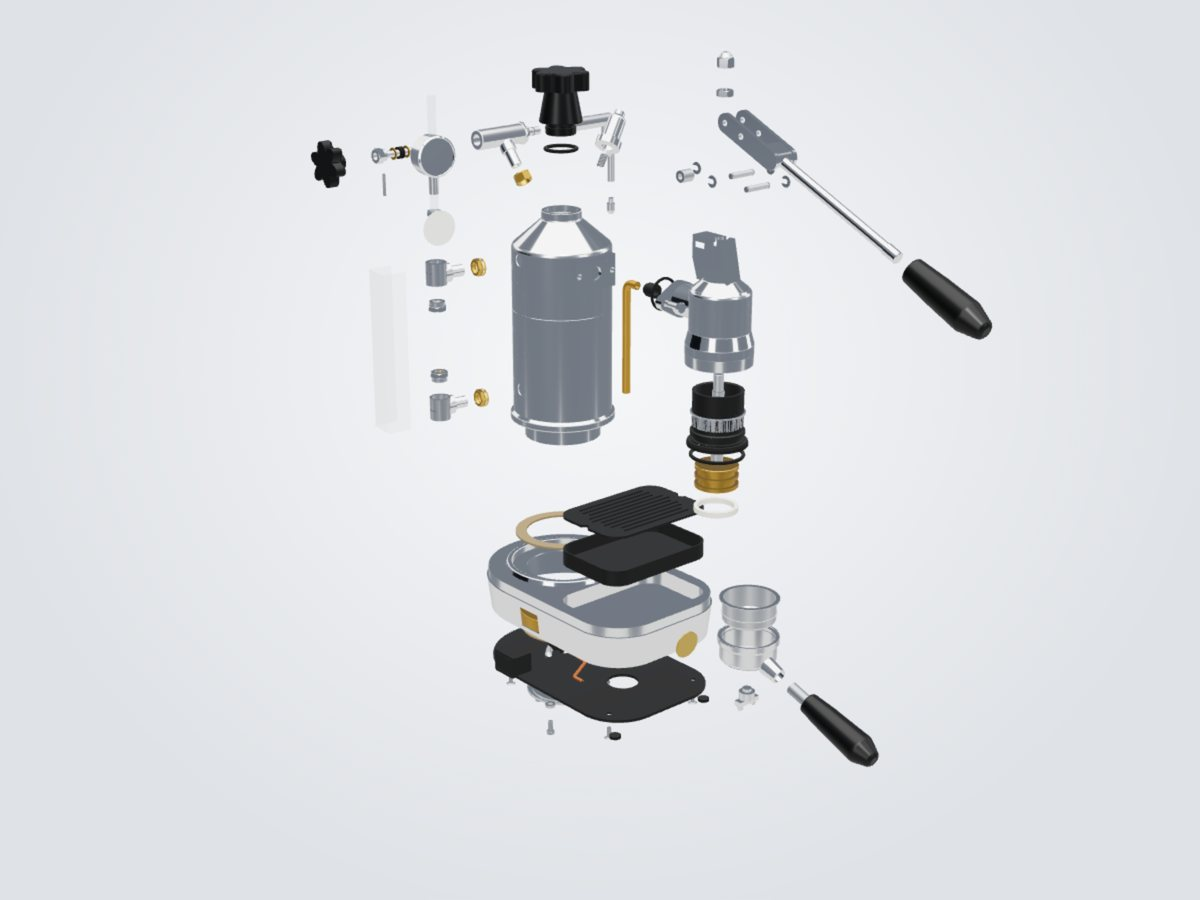
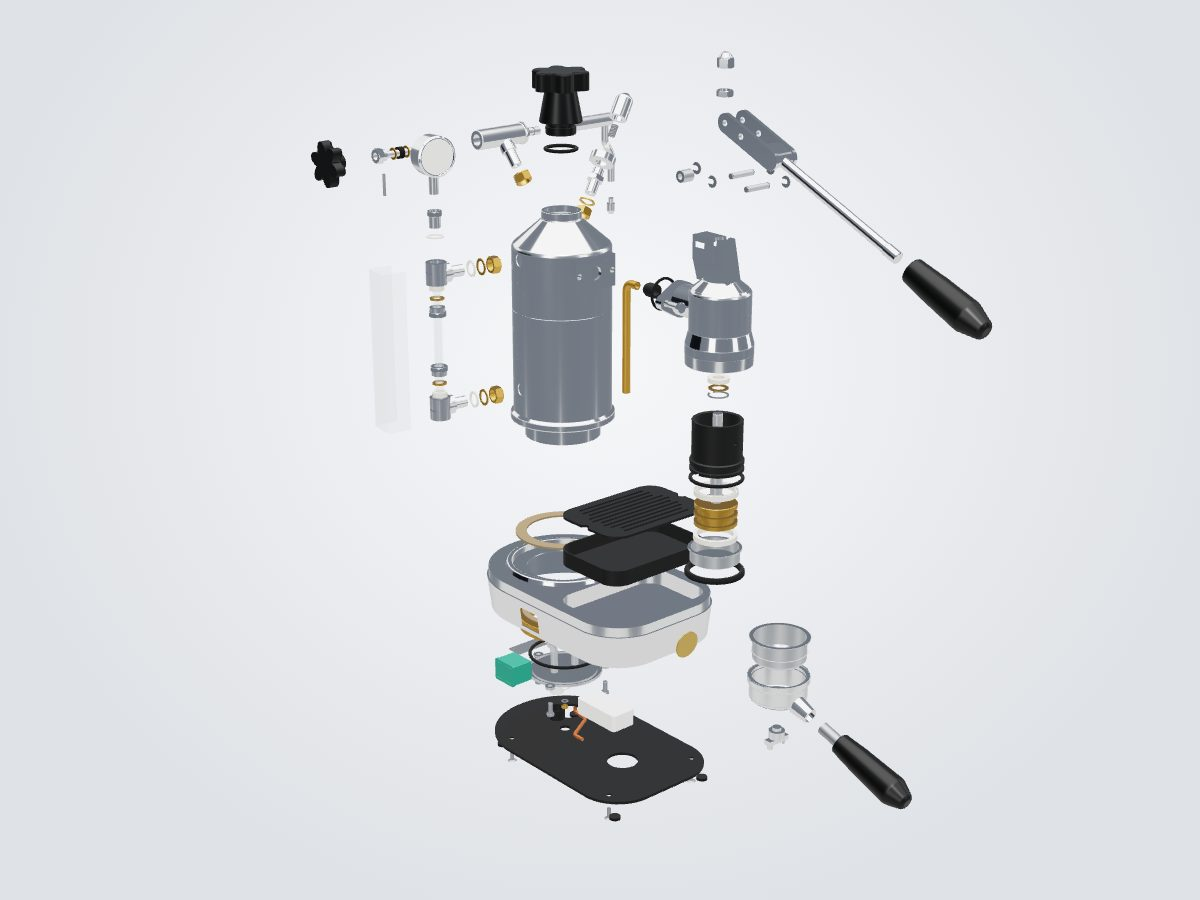
Exploded view: stack parts so that none end up inside another
The shower screen flickered at full explosion. It was not a rendering
problem: the screen (70 mm down) came to rest at the height of the
piston sleeve (100 mm down), both are dia. 50 on the outside, so two
surfaces lay on top of each other. The same happened in 21 other pairs
(bottom plate / pressurestat, sight glass / gauge, valve cap / fitting)
and, in the procedures, where detached assemblies come to rest.

- validate: new check 10, no overlap at the end of any explode stage;
  check 8 also covers the resting positions at the end of every
  procedure step. Both run in the calibration test (98-118 mm).
- explode.removal_mm (optional): the way a part travels while its
  assembly still sits on the machine, where that differs from the way
  in the exploded view. On the bench the part travels distance_mm, so
  it ends up where the exploded view puts it (Ctx.travel, travel()).
- Explode data restacked in removal order: group column, parts under
  the base, safety valve, sight glass. The gauge dial moves with the
  gauge. Bottom plate, portafilter and drip tray rest clear of the
  parts removed after them.
- README images regenerated.

Claude-Session: https://claude.ai/code/session_011gdDKEsScSaLhDCu5dCiZj

diff --git a/web/src/logic/explode.ts b/web/src/logic/explode.ts
@@ -1,5 +1,5 @@
 // Hierarchical explode and removal offsets in CAD mm (world frame).
-import type { AppData, Vec3 } from '../data/types';
+import type { AppData, Explode, Vec3 } from '../data/types';
 import { asmChain, type ModelIndex } from './graph';
 
 export const smooth = (x: number) => x * x * (3 - 2 * x);
@@ -18,6 +18,14 @@ export function stageFactor(t: number, stage: number, nStages: number): number {
 }
 
 const add = (a: Vec3, b: Vec3, k: number): Vec3 => [a[0] + b[0] * k, a[1] + b[1] * k, a[2] + b[2] * k];
+
+/**
+ * How far a part or an assembly travels when it is removed. removal_mm sets the way while the
+ * unit still sits on the machine (the shower screen has the drip tray below it). Once an assembly
+ * above it is detached - it lies on the bench - the unit travels its full explode distance and
+ * comes to rest where the exploded view puts it. Same rule as Ctx.travel in cad/pavoni/validate.py.
+ */
+export const travel = (e: Explode, onBench: boolean): number => (onBench ? e.distance_mm : (e.removal_mm ?? e.distance_mm));
 
 /**
  * Global explode view: assemblies move apart along their axes, then their parts
@@ -62,19 +70,22 @@ export function removalDisplay(d: Pick<AppData, 'instances' | 'assemblyGeo'>, id
   for (const [iid, g] of Object.entries(d.instances)) {
     let o: Vec3 = [0, 0, 0];
     let active = false;
+    let onBench = false; // an assembly above is detached (or leaving in this step)
     for (const a of asmChain(g.assembly)) {
       const ag = d.assemblyGeo[a];
       if (!ag) continue;
+      const detached = st.moving.has(a) || st.removed.has(a);
       const p = st.moving.get(a) ?? (st.removed.has(a) ? 1 : 0);
       if (st.moving.has(a)) active = true;
-      if (p > 0) o = add(o, ag.explode.axis, ag.explode.distance_mm * smooth(p));
+      if (p > 0) o = add(o, ag.explode.axis, travel(ag.explode, onBench) * smooth(p));
+      if (detached) onBench = true;
     }
     const pid = idx.instPart[iid];
     const own = st.moving.get(iid) ?? st.moving.get(pid);
     let visible = true;
     if (own !== undefined) {
       active = true;
-      o = add(o, g.explode.axis, g.explode.distance_mm * smooth(own));
+      o = add(o, g.explode.axis, travel(g.explode, onBench) * smooth(own));
     } else if (st.removed.has(iid) || st.removed.has(pid)) {
       visible = false;
     }

diff --git a/web/src/logic/logic.test.ts b/web/src/logic/logic.test.ts
@@ -90,11 +90,30 @@ describe('explode', () => {
     const inside = Object.keys(data.instances).filter((i) => data.instances[i].assembly.startsWith(asm));
     expect(inside.length).toBeGreaterThan(2); // rod, piston and two seals at least
     const moved = d[inside[0]].offset;
-    expect(Math.hypot(...moved)).toBeCloseTo(data.assemblyGeo[asm].explode.distance_mm);
+    // only the piston assembly is moving here, its parent group is not detached: the way on the machine
+    const e = data.assemblyGeo[asm].explode;
+    expect(Math.hypot(...moved)).toBeCloseTo(e.removal_mm ?? e.distance_mm);
     for (const i of inside) expect(d[i].offset).toEqual(moved);
     // parts outside the assembly stay where they are
     const outside = Object.keys(data.instances).find((i) => data.instances[i].assembly === 'base')!;
     expect(d[outside].offset).toEqual([0, 0, 0]);
+  });
+  it('removal: short way on the machine, full explode distance once the assembly lies on the bench', () => {
+    // the shower screen leaves the mounted group by a short way (the drip tray is below it) ...
+    const screen = 'p081_shower_screen__1';
+    const e = data.instances[screen].explode;
+    expect(e.removal_mm).toBeDefined();
+    expect(e.removal_mm!).toBeLessThan(e.distance_mm);
+    const mounted = removalDisplay(data, idx, { removed: new Set<string>(), moving: new Map([[screen, 1]]) });
+    expect(Math.hypot(...mounted[screen].offset)).toBeCloseTo(e.removal_mm!);
+    // ... but with the group on the bench it ends up where the exploded view puts it, below the piston
+    const bench = removalDisplay(data, idx, { removed: new Set(['boiler.group']), moving: new Map([[screen, 1], ['boiler.group.piston', 1]]) });
+    const rel = (i: string) => bench[i].offset.map((c, k) => c - bench['p072_group_body__1'].offset[k]);
+    expect(Math.hypot(...rel(screen))).toBeCloseTo(e.distance_mm);
+    const f = explodeOffsets(data, 1);
+    const body = f['p072_group_body__1'];
+    for (const i of [screen, 'p079_piston__1', 'p078_piston_rod__1'])
+      expect(rel(i).map((c) => Math.round(c * 100))).toEqual(f[i].map((c, k) => Math.round((c - body[k]) * 100)));
   });
 });
 

diff --git a/web/src/data/types.ts b/web/src/data/types.ts
@@ -1,6 +1,8 @@
 export type I18n = { de: string; en?: string; it?: string };
 export type Vec3 = [number, number, number];
-export type Explode = { axis: Vec3; distance_mm: number; stage: number };
+/** distance_mm: way in the exploded view. removal_mm: the way the part travels instead when it is
+ * removed while its assembly still sits on the machine (see logic/explode.ts, travel). */
+export type Explode = { axis: Vec3; distance_mm: number; removal_mm?: number; stage: number };
 export type Confidence = 'measured' | 'catalog' | 'spec' | 'photo' | 'guess';
 export type Status = 'planned' | 'blockout' | 'modeled' | 'verified';
 

diff --git a/cad/pavoni/validate.py b/cad/pavoni/validate.py
@@ -8,12 +8,15 @@ Checks
   2 solids       every solid valid, closed, volume > 0
   3 interference pairwise overlap below tolerance, except the reasoned whitelist
   4 paths        each part/assembly leaves along its explode axis without collision
-                 when exactly its requires_removed closure is gone
+                 when exactly its requires_removed closure is gone (way: Ctx.travel)
   5 envelope     bounding box (without lever and portafilter grip) vs 200 x 290 x 320-366:
                  within 7 % ok, within 15 % warning, beyond that error
   6 budgets      GLB size, triangles, draw calls
   7 data         references, DAG, tools, dims keys
-  8 procedures   ids exist, requires satisfied, every step collision-free
+  8 procedures   ids exist, requires satisfied, every step collision-free, nothing overlaps
+                 where the removed parts and assemblies come to rest
+  9 proportions  photo ratios and catalog sizes against the model
+ 10 explode      no two parts overlap at the end of any stage of the exploded view
 """
 from __future__ import annotations
 
@@ -203,12 +206,100 @@ class Ctx:
         present = [i for i in present if i not in carried]  # carriers and parts riding on the moving part
         return moving, present
 
-    def explode_of(self, unit: str):
+    def travel(self, unit: str, removed=()) -> tuple[np.ndarray, float]:
+        """Axis and length of the way a part or assembly travels when it is removed.
+        removal_mm sets the way while the unit still sits on the machine (e.g. the shower
+        screen above the drip tray). Once an assembly above it is detached - it lies on the
+        bench - the unit travels the full explode distance, so that it comes to rest where
+        the exploded view puts it. Same rule as web/src/logic/explode.ts."""
         if self.kind(unit) == "asm":
             e = self.manifest["assemblies"][unit]["explode"]
+            above = self.chain(unit)[:-1]
         else:
             e = self.inst[unit]["explode"]
-        return np.array(e["axis"], float), float(e["distance_mm"])
+            above = self.chain(self.inst_asm[unit])
+        on_bench = any(a in removed for a in above)
+        dist = e["distance_mm"] if on_bench else e.get("removal_mm", e["distance_mm"])
+        return np.array(e["axis"], float), float(dist)
+
+    def display_offsets(self, removed: set[str], moving: list[str]) -> dict[str, np.ndarray]:
+        """What the viewer shows at the end of a procedure step (removalDisplay in
+        web/src/logic/explode.ts): detached assemblies lie at their offset ("bench"), the
+        units of this step have moved out, parts removed earlier are hidden (not in the result)."""
+        mset = set(moving)
+        gone = set(removed) | mset
+        out = {}
+        for i in self.inst:
+            if i in removed and i not in mset:
+                continue
+            o = np.zeros(3)
+            for a in self.chain(self.inst_asm[i]):
+                if a in self.asm and a in gone:
+                    axis, dist = self.travel(a, gone)
+                    o = o + axis * dist
+            if i in mset:
+                axis, dist = self.travel(i, gone)
+                o = o + axis * dist
+            out[i] = o
+        return out
+
+    def overlaps_at(self, off: dict[str, np.ndarray], skip=()):
+        """Pairs of instances that overlap when each is moved by its offset. Pairs with the
+        same offset keep their assembled relation (check 3) and are left out. Yields
+        (a, b, volume) with volume None where the intersection cannot be computed."""
+        import fcl
+        import trimesh
+
+        ids = list(off)
+        bbs = {i: self.bbox(i) + off[i] for i in ids}
+        req = fcl.CollisionRequest()
+        for a_i, a in enumerate(ids):
+            for b in ids[a_i + 1 :]:
+                if frozenset((a, b)) in skip or np.allclose(off[a], off[b], atol=1e-6):
+                    continue
+                A, B = bbs[a], bbs[b]
+                if np.any(A[1] < B[0]) or np.any(A[0] > B[1]):
+                    continue
+                o1 = fcl.CollisionObject(self.bvh(a, True), fcl.Transform(off[a]))
+                o2 = fcl.CollisionObject(self.bvh(b, True), fcl.Transform(off[b]))
+                if not fcl.collide(o1, o2, req, fcl.CollisionResult()):
+                    continue
+                ma = trimesh.Trimesh(self.meshes[f"{a}__v"] + off[a], self.meshes[f"{a}__f"])
+                mb = trimesh.Trimesh(self.meshes[f"{b}__v"] + off[b], self.meshes[f"{b}__f"])
+                try:
+                    inter = trimesh.boolean.intersection([ma, mb], engine="manifold")
+                    vol = float(inter.volume) if len(inter.faces) else 0.0
+                    area = float(inter.area) if len(inter.faces) else 1.0
+                except Exception:  # noqa: BLE001
+                    yield a, b, None
+                    continue
+                if 2 * vol / max(area, 1e-9) > INTERFERENCE_THICKNESS and vol > 0.5:
+                    yield a, b, vol
+
+    def explode_stages(self) -> int:
+        es = [v["explode"] for v in self.inst.values()] + [v["explode"] for v in self.manifest["assemblies"].values()]
+        return max([1] + [int(e["stage"]) for e in es])
+
+    def explode_offsets(self, t: float) -> dict[str, np.ndarray]:
+        """Offsets (mm, world) of the exploded view at t in [0, 1]. Same rule as
+        web/src/logic/explode.ts: the assemblies along the chain, then the part itself,
+        each opening during its stage."""
+        n = self.explode_stages()
+
+        def factor(stage):
+            x = min(1.0, max(0.0, t * n - (stage - 1)))
+            return x * x * (3 - 2 * x)
+
+        out = {}
+        for i, v in self.inst.items():
+            o = np.zeros(3)
+            for a in self.chain(v["assembly"]):
+                e = self.manifest["assemblies"].get(a, {}).get("explode")
+                if e:
+                    o += np.array(e["axis"], float) * e["distance_mm"] * factor(e["stage"])
+            e = v["explode"]
+            out[i] = o + np.array(e["axis"], float) * e["distance_mm"] * factor(e["stage"])
+        return out
 
     # collision --------------------------------------------------------------
     def bvh(self, iid: str, shrunk: bool):
@@ -451,12 +542,12 @@ def check_paths(ctx: Ctx, rep: Report):
         for i in ctx.part_instances[p["id"]]:
             units.append((i, "inst"))
     for unit, kind in units:
-        axis, dist = ctx.explode_of(unit)
-        if dist <= 0:
-            continue
         reqs = ctx.requires(unit)
         removed = ctx.closure(reqs)
         removed.discard(unit)
+        axis, dist = ctx.travel(unit, removed)
+        if dist <= 0:
+            continue
         moving, present = ctx.context(unit, removed)
         hit = ctx.path_collisions(moving, present, axis, dist)
         n += 1
@@ -512,6 +603,8 @@ def check_procedures(ctx: Ctx, rep: Report, coverage_strict: bool):
         removed = ctx.closure(proc.get("start_removed", []))
         n_moves = 0
         for st in proc["steps"]:
+            before = set(removed)
+            step_units = []
             for t in st.get("tools", []):
                 if t not in tools:
                     rep.add(name, "error", f"{pid}/{st['id']}: Werkzeug {t} unbekannt")
@@ -535,8 +628,9 @@ def check_procedures(ctx: Ctx, rep: Report, coverage_strict: bool):
                 if missing:
                     rep.add(name, "error", f"{pid}/{st['id']}: {r} ausgebaut, aber noch nicht entfernt: {', '.join(missing[:6])}")
                 units = [r] if k == "asm" else ([r] if r in ctx.inst else []) if k == "inst" else ctx.part_instances[r]
+                step_units.extend(units)
                 for u in units:
-                    axis, dist = ctx.explode_of(u)
+                    axis, dist = ctx.travel(u, removed)
                     moving, present = ctx.context(u, removed)
                     hit = ctx.path_collisions(moving, present, axis, dist)
                     n_moves += 1
@@ -547,7 +641,11 @@ def check_procedures(ctx: Ctx, rep: Report, coverage_strict: bool):
                     removed.add(r)
                 if k == "part":
                     removed.update(ctx.parts[r]["instances"])
-        rep.ok(name, f"{pid}: {len(proc['steps'])} Schritte, {n_moves} Bewegungen vorwärts kollisionsfrei geprüft (rückwärts = gleiche Pfade)")
+            # what lies on the "bench" at the end of the step must not overlap either
+            for a, b, vol in ctx.overlaps_at(ctx.display_offsets(before, step_units)):
+                how = "Schnittvolumen nicht berechenbar" if vol is None else f"{vol:.1f} mm³"
+                rep.add(name, "error", f"{pid}/{st['id']}: {a} x {b} überdecken sich am Ende des Schritts ({how}) - Ausbauweg/Ablage (removal_mm) anpassen")
+        rep.ok(name, f"{pid}: {len(proc['steps'])} Schritte, {n_moves} Bewegungen vorwärts kollisionsfrei geprüft (rückwärts = gleiche Pfade), Ablage ohne Überdeckung")
     wear = [p["id"] for p in ctx.data["parts"] if p["wear_part"] and p["status"] != "planned"]
     for w in wear:
         if w not in covered:
@@ -569,8 +667,24 @@ def check_proportions(ctx: Ctx, rep: Report, D: Dims):
             rep.ok(name, f"{r['name']}: {r['value']} mm, Soll {r['target_mm']} mm ({r['dev']:+.1%})")
 
 
+def check_explode(ctx: Ctx, rep: Report):
+    """The exploded view must not put parts into each other: coincident faces of two parts
+    flicker in the viewer (the shower screen used to end up around the piston sleeve, both
+    dia. 50). Checked where the slider comes to rest, at the end of every stage."""
+    name = "10 Explosionsansicht (keine Überdeckung am Ende jeder Stufe)"
+    rep.ok(name)
+    n = ctx.explode_stages()
+    found: set[frozenset] = set()
+    for k in range(1, n + 1):
+        for a, b, vol in ctx.overlaps_at(ctx.explode_offsets(k / n), skip=found):
+            found.add(frozenset((a, b)))
+            how = "Schnittvolumen nicht berechenbar" if vol is None else f"{vol:.1f} mm³"
+            rep.add(name, "error", f"{a} x {b}: überdecken sich ab Stufe {k} ({how}) - explode-Wege staffeln")
+    rep.ok(name, f"{n} Stufen geprüft")
+
+
 def geometry_report(data: dict, instances: dict, assemblies: dict, meshes: dict) -> Report:
-    """Solids, interference, removal paths and procedures for a model held in memory
+    """Solids, interference, removal paths, procedures and the exploded view for a model held in memory
     (see export.collect). Used to check variants, e.g. other boiler diameters."""
     rep = Report()
     ctx = Ctx(data, {"instances": instances, "assemblies": assemblies}, meshes)
@@ -578,6 +692,7 @@ def geometry_report(data: dict, instances: dict, assemblies: dict, meshes: dict)
     check_interference(ctx, rep)
     check_paths(ctx, rep)
     check_procedures(ctx, rep, coverage_strict=False)
+    check_explode(ctx, rep)
     return rep
 
 
@@ -606,6 +721,8 @@ def main(argv=None) -> int:
     check_budgets(rep, stats)
     check_procedures(ctx, rep, coverage_strict=complete and len(data["procedures"]) >= 11)
     check_proportions(ctx, rep, D)
+    if not args.skip_geometry:
+        check_explode(ctx, rep)
     rep.print()
     REPORT.write_text(json.dumps({"time_s": round(time.time() - t0, 1), "checks": rep.checks}, indent=1, ensure_ascii=False))
     print(f"validate: {rep.n_errors} Fehler, {time.time() - t0:.1f} s -> {REPORT.relative_to(REPORT.parents[1])}")

diff --git a/cad/pavoni/export.py b/cad/pavoni/export.py
@@ -43,6 +43,15 @@ def world_axis(loc, axis) -> list[float]:
     return [round(v.X() / n, 6), round(v.Y() / n, 6), round(v.Z() / n, 6)]
 
 
+def explode_entry(loc, ex: dict) -> dict:
+    """Explode data of a part or assembly with the axis in the world frame. removal_mm is
+    optional: the way the part travels when it is removed on the machine, see common.schema.json."""
+    out = {"axis": world_axis(loc, ex["axis"]), "distance_mm": ex["distance_mm"], "stage": ex["stage"]}
+    if "removal_mm" in ex:
+        out["removal_mm"] = ex["removal_mm"]
+    return out
+
+
 def git_sha() -> str:
     try:
         return subprocess.check_output(["git", "rev-parse", "--short", "HEAD"], text=True, stderr=subprocess.DEVNULL).strip()
@@ -75,7 +84,7 @@ def collect(m):
             "valid": bool(BRepCheck_Analyzer(s.wrapped).IsValid()),
             "closed": all(sh.is_closed for sh in s.shells()) if hasattr(s.shells()[0], "is_closed") else True,
             "n_faces": len(s.faces()),
-            "explode": {"axis": world_axis(loc, ex["axis"]), "distance_mm": ex["distance_mm"], "stage": ex["stage"]},
+            "explode": explode_entry(loc, ex),
         }
         # NB: bounding_box()/volume clear OCC triangulations, so mesh last.
         lin, ang = mesh_params(p, s)
@@ -93,7 +102,7 @@ def collect(m):
         assemblies[aid] = {
             "parent": parent,
             "detachable": a["detachable"],
-            "explode": {"axis": world_axis(loc, a["explode"]["axis"]), "distance_mm": a["explode"]["distance_mm"], "stage": a["explode"]["stage"]},
+            "explode": explode_entry(loc, a["explode"]),
         }
     return instances, assemblies, meshes, groups
 

diff --git a/PLAN.md b/PLAN.md
@@ -525,6 +525,12 @@ kompiliert, ist nicht fertig.
    200 × 290 × 320–366 mm (die Höhenangaben der Händler streuen). Weiche Prüfung: bis 7 % außerhalb in
    Ordnung, bis 15 % Warnung, darüber Fehler.
 6. **Budgets:** Dateigröße, Dreiecke, Draw Calls.
+7. **Explosionsansicht und Ablage:** Am Ende jeder Stufe des Explosions-Reglers und am Ende jedes
+   Anleitungsschritts (abgenommene Baugruppen liegen dann auf der „Werkbank“) überdecken sich keine zwei
+   sichtbaren Teile (gleiche Mesh-Kollisionsprüfung wie Nr. 3, ohne Whitelist). Sonst liegen Flächen zweier
+   Teile aufeinander und flackern im Viewer. Teile mit gleichem Versatz behalten ihre Einbaulage und zählen
+   nicht. `explode.removal_mm` legt einen abweichenden Ausbauweg fest, solange die Baugruppe an der
+   Maschine sitzt (Abschnitt 16).
 
 ### 11.2 Web
 
@@ -885,3 +891,37 @@ gegen die Fotos angesehen; Daten und Anleitungen stichprobenartig gegen die Quel
   passen besser zu D ≈ 108–110 mm, die Gruppenkette mit der 111-mm-Stange eher zu 100–104 mm. Das klärt nur
   die Messung A1 in `reference/measurements.md`.
 - Nicht geändert: Länge der Tropfschale, Lizenz, Deployment.
+
+### Nachtrag: Explosionsansicht (2026-11-12)
+
+Auslöser: In der vollen Explosion flackerte das Duschsieb. Ursache war kein Rendering-Fehler, sondern die
+Anordnung: Das Sieb (70 mm nach unten) landete auf der Höhe der Kolbenhülse (100 mm nach unten), beide haben
+außen Ø50, die Flächen lagen aufeinander (2417 mm³ Überdeckung). Eine Prüfung aller Stufen fand 22 solche
+Paare, u. a. Bodenplatte × Pressostat/Heizelement, Schauglas × Manometer, Ventilkappe × Fitting.
+
+- **Neue Prüfung 10 in `make validate`** (Abschnitt 11.1 Nr. 7): keine Überdeckung am Ende jeder Stufe.
+  **Prüfung 8 erweitert:** Am Ende jedes Anleitungsschritts darf sich auch auf der „Werkbank“ nichts
+  überdecken. Das fand 67 weitere Fälle in 5 Anleitungen, z. B. abgelegter Kolben im abgelegten Siebträger,
+  Heizelement durch die abgelegte Bodenplatte, Kolbenstange durch das mit ausgetriebene Duschsieb. Beide
+  Prüfungen laufen auch im Kalibrier-Test für 98–118 mm Kesseldurchmesser.
+- **`explode.removal_mm` (optional).** `distance_mm` ist der Weg in der Explosionsansicht und der normale
+  Ausbauweg. `removal_mm` legt einen abweichenden Ausbauweg fest, solange die Baugruppe des Teils an der
+  Maschine sitzt. Beispiel Schauglas: Es bleibt in der Explosionsansicht stehen (0 mm), wird aber 175 mm nach
+  oben herausgezogen. Beispiel Duschsieb: an der montierten Gruppe 70 mm (darunter liegt die Tropfschale); liegt die Gruppe
+  abgenommen auf der Werkbank, fährt es die vollen 212 mm und endet unter Hülse und Kolben, genau wie in
+  der Explosionsansicht. Dieselbe Regel steht in `Ctx.travel` (validate.py) und `travel` (explode.ts).
+- **Ablage angepasst:** Bodenplatte 156 mm (vorher 60) und damit unter dem Heizelement, Siebträger 250 mm,
+  Tropfschale an der Maschine nur 30 mm hoch (das Steigrohr der abgenommenen Gruppe ragte hinein),
+  Kolben 190 mm, Hülse 130 mm, Ventilkappe 70 mm.
+- **Reihenfolge wie beim Ausbau, das zuerst ausgebaute Teil liegt außen.** Gruppe von oben nach unten:
+  Stangendichtung, Scheibe, Sicherungsring, Hülse, Hülsen-O-Ring, obere Kolbendichtung, Kolben mit Stange,
+  untere Kolbendichtung, Duschsieb, Siebträger-Dichtung. Sieb und Dichtung fahren in Stufe 3 zusammen mit
+  Kolben und Hülse, dann überholt nichts etwas anderes. Unter der Basis: untere Dichtung, Ring, Heizelement,
+  Thermostat mit Zahnscheibe, Mutter und Kappe, Bodenplatte ganz unten; Elektrik und Thermostat fahren in
+  Stufe 1 mit dem Heizelement. Sicherheitsventil nach außen: Innenmutter, Innenscheibe, Fitting,
+  Kondensatschale, Ventil, Feder, Kappe. Schauglas: Das Glasrohr bleibt zwischen den Haltern stehen,
+  Druckschrauben, Messingscheiben und Dichtungen verteilen sich darauf; Innenscheiben und Innenmuttern liegen
+  in der Reihenfolge der Achse zwischen Halter und Kessel (im Original sitzen sie innen im Kessel).
+- Das Manometer-Zifferblatt fährt jetzt mit dem Manometer mit (blieb vorher allein zurück).
+- Der Siebträger fährt in der Explosionsansicht 250 statt 200 mm, damit er nicht unter der Gruppen-Säule liegt.
+

diff --git a/CLAUDE.md b/CLAUDE.md
@@ -29,6 +29,11 @@ Fortschritt: Checkboxen in `PLAN.md` Abschnitt 12 und `status` je Teil in `data/
 - `requires_removed` darf Baugruppen-IDs enthalten (= als Einheit abgenommen, z. B. `group`).
   `carrier`: elastisches Teil wird über diesen Träger gezogen (Ausbaupfad ignoriert den Träger).
   `instance_requires` überschreibt `requires_removed` je Instanz; `optional: true` = nicht verbaut, nicht modellieren.
+- Explosionsansicht und Anleitungen: am Ende jeder Stufe und jedes Schritts darf sich nichts überdecken
+  (`make validate`, Prüfungen 10 und 8), sonst flackern aufeinanderliegende Flächen. Wege staffeln, zuerst
+  ausgebautes Teil außen. `explode.distance_mm` = Weg in der Explosionsansicht und Ausbauweg;
+  `explode.removal_mm` = abweichender Ausbauweg, solange die Baugruppe an der Maschine sitzt (auf der
+  Werkbank gilt `distance_mm`).
 - Nach jeder Modellier-Iteration: `make cad validate renders`, PNGs ansehen, mit `reference/photos/` vergleichen.
   Erst dann `status: verified`.
 - `build123d`: `bounding_box()`/`volume` löschen die Tessellierung - in `export.py` zuletzt vernetzen.
